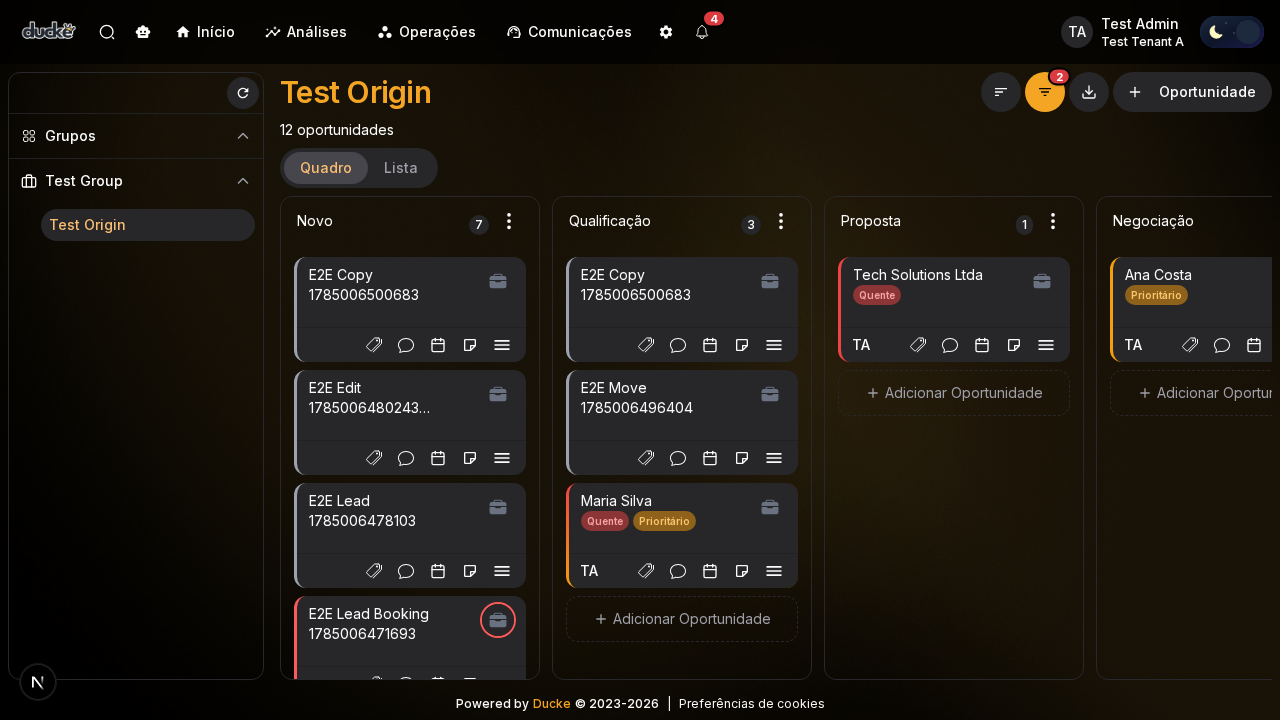
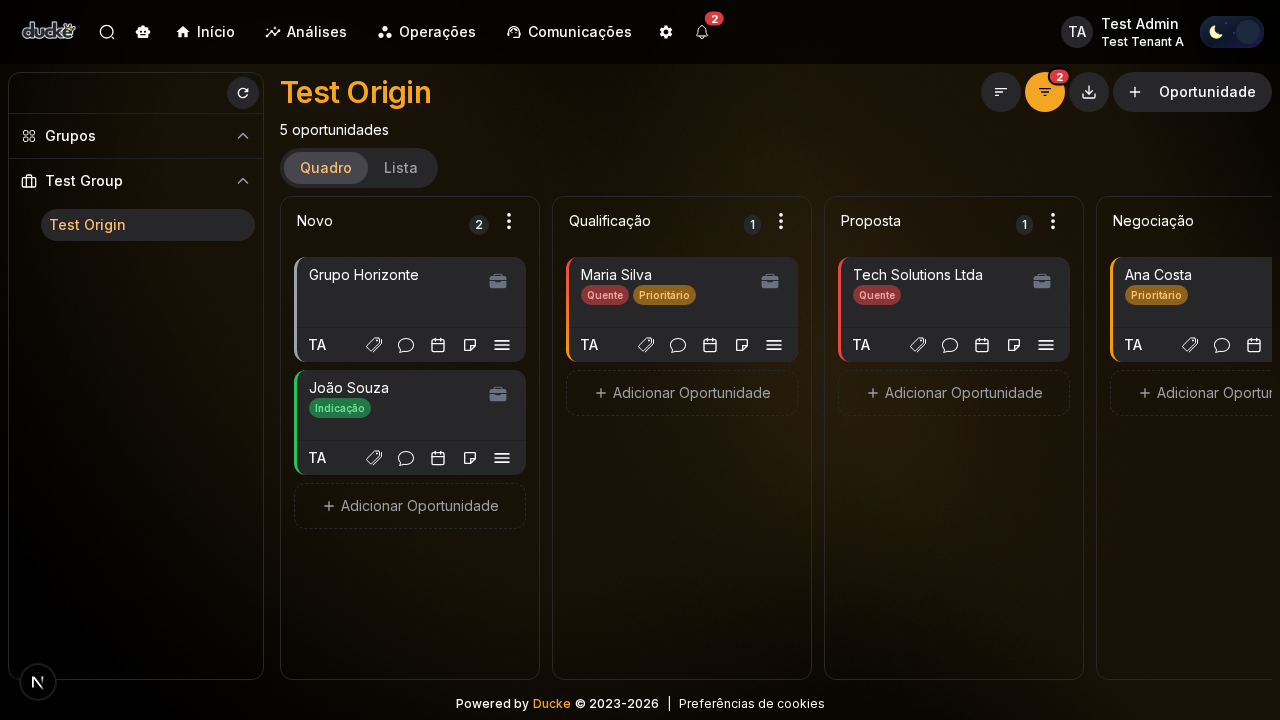
Add tasks and bulk actions documentation for lead management
- Introduced new sections on configuring and using tasks within lead stages, including checklists and automatic progression.
- Added documentation for bulk actions in the lead list, detailing selection and modification processes.
- Updated existing pages to link to new content and improve navigation.
- Included new images for better visual guidance.

diff --git a/app/3-gestao-de-leads/_meta.js b/app/3-gestao-de-leads/_meta.js
@@ -2,5 +2,6 @@ export default {
   '0-visao-geral': 'Visão Geral',
   '1-criacao-de-leads': 'Criação de Leads',
   '2-gestao-de-status': 'Gestão de Status do Lead',
-  '3-organizacao-de-leads': 'Organização de Leads'
-} 
+  '3-organizacao-de-leads': 'Organização de Leads',
+  '4-tarefas-da-etapa': 'Tarefas da Etapa',
+}

diff --git a/app/3-gestao-de-leads/3-organizacao-de-leads/_meta.js b/app/3-gestao-de-leads/3-organizacao-de-leads/_meta.js
@@ -1,0 +1,7 @@
+export default {
+  '0-visualizar-e-editar': 'Visualizar e editar',
+  '1-tags': 'Tags',
+  '2-classificacao': 'Classificação',
+  '3-historico': 'Histórico',
+  '4-acoes-em-massa': 'Ações em massa',
+}

diff --git a/app/3-gestao-de-leads/4-tarefas-da-etapa/_meta.js b/app/3-gestao-de-leads/4-tarefas-da-etapa/_meta.js
@@ -1,0 +1,4 @@
+export default {
+  '1-configurar-tarefas': 'Configurar tarefas',
+  '2-checklist-do-lead': 'Checklist no lead',
+}

diff --git a/docs/AUTHORING.md b/docs/AUTHORING.md
@@ -2,6 +2,27 @@
 
 Este guia define como **autores humanos** e **agentes (Cursor)** escrevem a documentação de uso. O comando `docs:screenshots` **não** gera texto — apenas atualiza screenshots.
 
+## Revisão de impacto (obrigatória em changes OpenSpec)
+
+Toda change de produto no OpenSpec (`ducke-crm-app/openspec/changes/…`) **deve** registrar um resultado de documentação no `proposal.md` e espelhá-lo em `tasks.md`:
+
+| Resultado | Quando usar | O que fazer |
+|-----------|-------------|-------------|
+| **create** | Nova capacidade ou fluxo que o usuário precisa aprender | Nova página MDX (+ `_meta.js`), e manifest/`docs:screenshots` se houver print novo |
+| **update** | Mudança em UI, labels, setup ou fluxo já documentado (ou que deveria estar) | Editar MDX existente; atualizar prints se a tela mudou |
+| **N/A** | Só com motivo permitido (abaixo) | Task explícita em `tasks.md` com o motivo |
+
+### Motivos permitidos para N/A
+
+- Sem mudança visível ao usuário (refactor, tipagem, performance interna)
+- API/interna sem impacto de fluxo ou copy na UI
+- Infra, CI, tooling ou process OpenSpec
+- Change só de documentação (já é o trabalho de docs)
+
+**Não** use N/A para polish de UX, painéis novos, renomeação de labels ou mudanças de fluxo — nesses casos use **create** ou **update** (um parágrafo em página existente conta como update).
+
+Antes de `/opsx:archive`, confira: tasks de docs concluídas, ou N/A ainda válido. Spec: `openspec/specs/usage-documentation` (Documentation impact review).
+
 ## Divisão de responsabilidades
 
 | Quem | O quê | Onde |
@@ -11,11 +32,12 @@ Este guia define como **autores humanos** e **agentes (Cursor)** escrevem a docu
 
 ## Fluxo recomendado
 
-1. **Manifest** — adicione ou atualize a rota em `ducke-crm-app/e2e/doc-capture/routes.manifest.ts` com `printFile` estável (ex.: `lista-leads.png`).
-2. **Captura** — rode `npm run docs:screenshots` em `ducke-crm-app` para atualizar o PNG.
-3. **Autoria** — crie ou edite a página MDX em `ducke-docs/app/<secao>/page.mdx`.
-4. **Navegação** — registre a seção em `app/_meta.js` se for página nova.
-5. **Preview** — `npm run dev` em `ducke-docs`.
+1. **OpenSpec** — no proposal, defina Documentation: `create` \| `update` \| `N/A` (+ motivo se N/A).
+2. **Manifest** — adicione ou atualize a rota em `ducke-crm-app/e2e/doc-capture/routes.manifest.ts` com `printFile` estável (ex.: `lista-leads.png`), se create/update precisar de print.
+3. **Captura** — rode `npm run docs:screenshots` em `ducke-crm-app` para atualizar o PNG.
+4. **Autoria** — crie ou edite a página MDX em `ducke-docs/app/<secao>/page.mdx`.
+5. **Navegação** — registre a seção em `app/_meta.js` se for página nova.
+6. **Preview** — `npm run dev` em `ducke-docs`.
 
 ## Estrutura de uma página MDX
 
